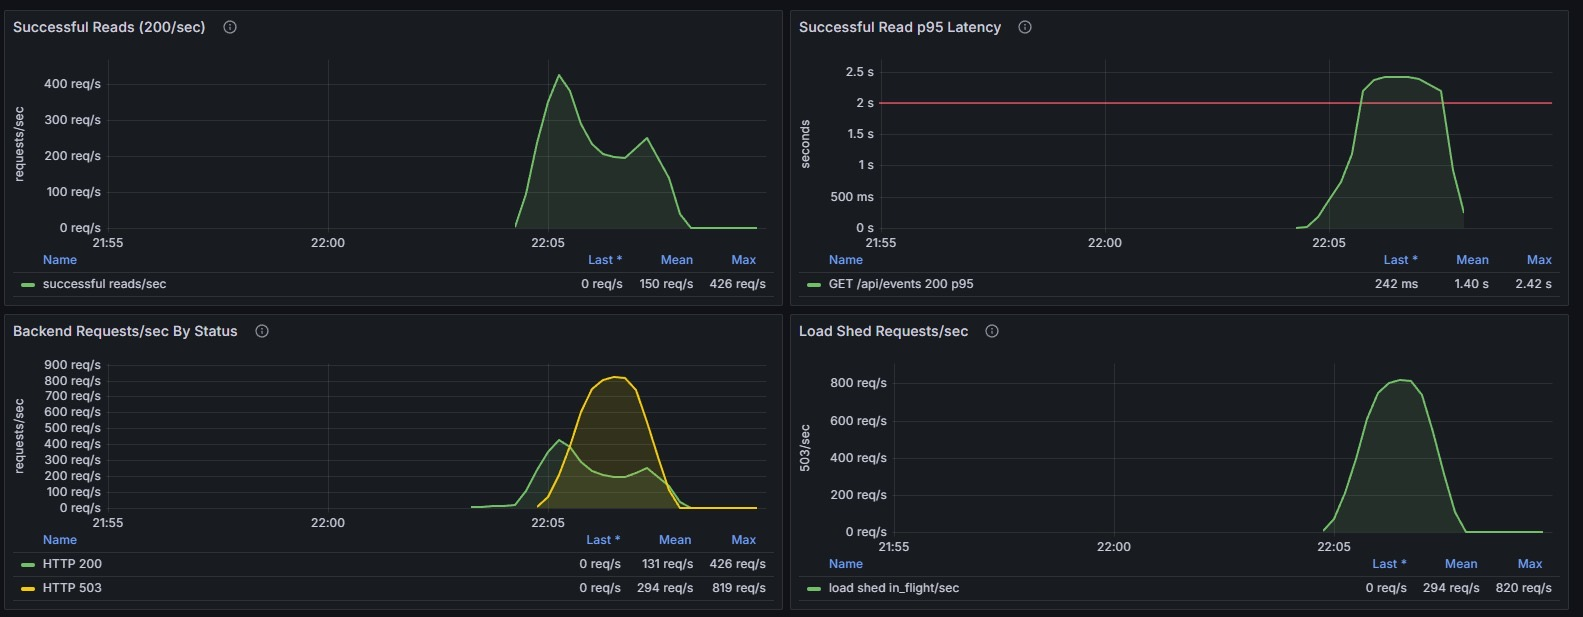
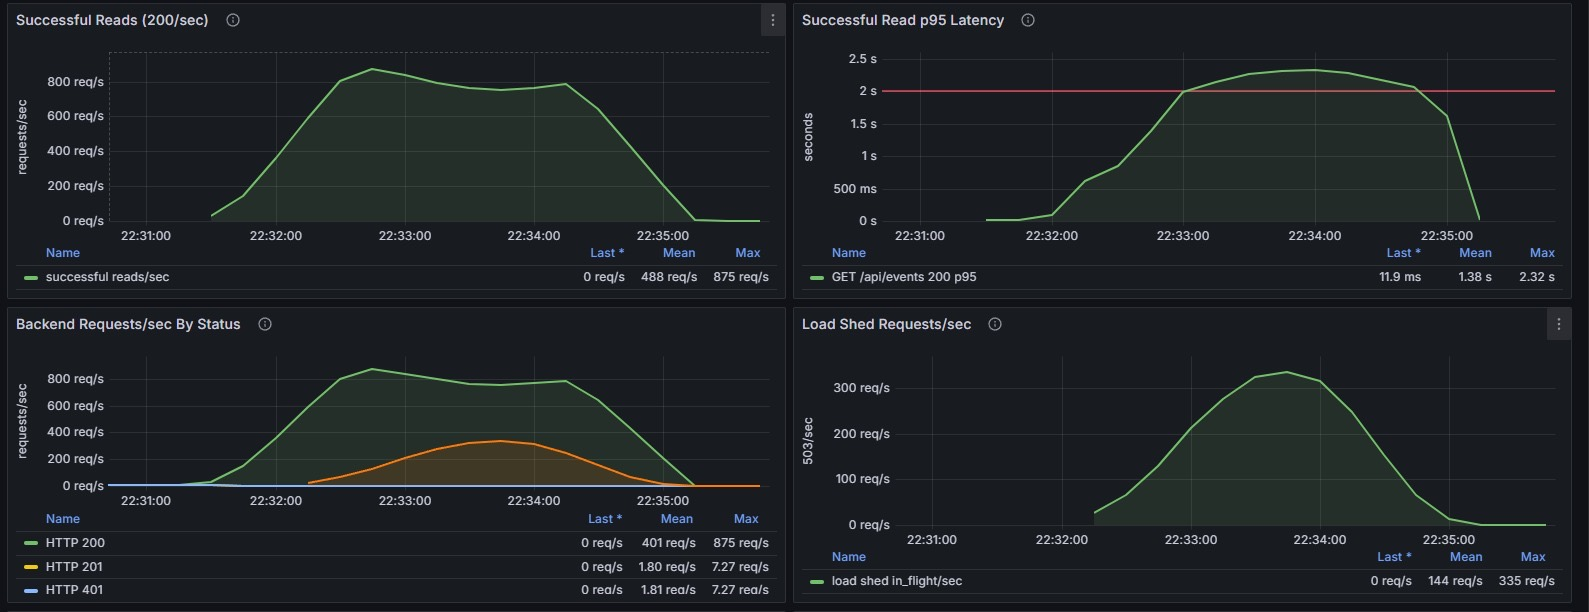
Fix swapped 3-node and 5-node results in small-machine load tests
The two charts were mislabeled: the 875 req/s peak run was the 5-node
cluster and the 426 req/s run was the 3-node cluster. Swapped the image
files and corrected the table and interpretation — throughput scales
monotonically 1 -> 3 -> 5 on the small machines too; there was no
5-node regression. Known Limitation #6 and the vertical-scaling bonus
comparison no longer claim a measured stateful-tier saturation; the
bonus conclusion is now qualitative (node count drives throughput,
larger machines buy lower tail latency and less shedding).

Claude-Session: https://claude.ai/code/session_019R9PFFCpVsKHPXvMEkCjTg

diff --git a/README.md b/README.md
@@ -656,25 +656,25 @@ Measured against 1 / 3 / 5 backend nodes at 500 peak VUs. The red line in the p9
 | Nodes | Successful reads (mean) | Successful reads (peak) | p95 latency (mean) | p95 latency (peak) | 503 load shed (mean / peak) |
 |---|---|---|---|---|---|
 | 1 | 27.7 req/s | 98.5 req/s | 3.64 s | 7.07 s | 199 / 401 req/s (in-flight) |
-| 3 | 488 req/s | 875 req/s | 1.38 s | 2.32 s | 144 / 335 req/s (in-flight) |
-| 5 | 150 req/s | 426 req/s | 1.40 s | 2.42 s | 294 / 820 req/s (in-flight) |
+| 3 | 150 req/s | 426 req/s | 1.40 s | 2.42 s | 294 / 820 req/s (in-flight) |
+| 5 | 488 req/s | 875 req/s | 1.38 s | 2.32 s | 144 / 335 req/s (in-flight) |
 
 **1 node** — saturates almost immediately: successful throughput tops out under ~100 req/s, p95 climbs to 7 s (far past the 2 s threshold), and the majority of traffic is rejected by in-flight load shedding. The single node survives the overload (it sheds instead of collapsing), but it cannot serve it.
 
 ![1 backend node](docs/results/loadtest-1-node.jpeg)
 
-**3 nodes** — the clearest scalability win: peak successful throughput rises ~9× to 875 req/s, p95 stays around the 2 s threshold instead of blowing through it, and load shedding drops even though the offered load is the same. This is the horizontal-scaling effect the assignment asks to demonstrate.
+**3 nodes** — peak successful throughput rises ~4× to 426 req/s and p95 comes back down to the 2 s threshold. Shedding at peak is the heaviest of all three runs (~820 req/s): the cluster now accepts far more of the offered 500-VU load than a single node, but still cannot serve all of it, so the in-flight shedders reject the excess instead of letting latency blow up.
 
 ![3 backend nodes](docs/results/loadtest-3-nodes.jpeg)
 
-**5 nodes** — throughput does *not* keep scaling: successful reads peak at 426 req/s, below the 3-node run, while in-flight shedding explodes to ~820 req/s at peak. With five stateless nodes in front of a single shared PostgreSQL/Redis/Nginx VM, the shared stateful tier (and the infra VM hosting it) becomes the bottleneck — backend workers wait on the database, in-flight counts rise, and the load shedders reject most of the extra traffic. This matches the hypothesis in `docs/scalability-plan.md`: adding stateless nodes helps only until the shared state saturates. It is also exactly the kind of non-linear edge case the assignment says to address rather than hide (see Known Limitations #6).
+**5 nodes** — throughput keeps scaling: successful reads peak at 875 req/s (~9× the single node, ~2× the 3-node run) with the best p95 of the set, and shedding drops sharply (144 / 335 req/s) because the cluster can now serve most of the demand. This is the horizontal-scaling effect the assignment asks to demonstrate.
 
 ![5 backend nodes](docs/results/loadtest-5-nodes.jpeg)
 
 **Takeaways:**
-- Scaling out from 1 → 3 nodes improves both throughput (~9×) and tail latency (p95 7 s → 2.3 s) — near-ideal horizontal scaling while the backend tier is the bottleneck.
-- Scaling out further (3 → 5) moves the bottleneck to the unscaled stateful tier; more stateless nodes then add contention instead of capacity.
-- Overload mitigation works as designed at every scale: excess traffic is rejected with `503` (in-flight shedding) instead of queueing until the node falls over, so successful requests keep flowing even at peak overload.
+- Throughput scales monotonically with node count: ~99 → ~426 → ~875 req/s peak for 1 → 3 → 5 nodes, and tail latency recovers from 7 s to ~2.3 s once there is more than one node.
+- The 3-node run shows overload mitigation carrying the intermediate scale: demand still exceeds capacity, so the shedders reject the excess (~820 req/s peak) while successful requests keep flowing at threshold-level latency.
+- Overload mitigation works as designed at every scale: excess traffic is rejected with `503` (in-flight shedding) instead of queueing until the node falls over — no run collapses, they degrade predictably.
 
 ### Bonus — Vertical Scaling
 Re-run the same tests with `machine_type=e2-standard-2` instead of the default `e2-micro` and compare results across all six configurations (2 machine types × 3 node counts).
@@ -701,7 +701,7 @@ In the following you can see the results on the scaled-up systems (`e2-standard-
 
 ![3 backend nodes, scaled up](docs/results/loadtest-3-nodes-scaled-up.jpeg)
 
-**(c) 5 nodes, scaled up** — the key result of the bonus: throughput keeps scaling to ~846 req/s peak with the *lowest* p95 (2.36 s peak) and *less* shedding than the 3-node run. On the small machines, 5 nodes performed worse than 3 because the shared stateful tier saturated; on the larger machines that bottleneck moves out far enough for the fifth node to pay off. Horizontal and vertical scaling complement each other — scaling out multiplies capacity only while the shared components can keep up, and scaling up is what buys them that headroom.
+**(c) 5 nodes, scaled up** — throughput keeps scaling to ~846 req/s peak with the *lowest* p95 of the set (2.36 s peak) and less shedding than the 3-node run — the same monotonic 1 → 3 → 5 pattern as on the small machines, confirming that horizontal scaling is the dominant effect at both machine sizes. Absolute numbers are not directly comparable across the two machine-type sets (the small-machine runs used the earlier load test pipeline and shedding tuning), so the bonus conclusion is qualitative: node count drives throughput, and the larger machine type mainly buys lower tail latency and less shedding at the same node count.
 
 ![5 backend nodes, scaled up](docs/results/loadtest-5-nodes-scaled-up.jpeg)
 
@@ -773,7 +773,7 @@ For local dev, both default to `localhost` if the env file is absent.
 3. **Cache invalidation uses a hand-maintained key list:** writes delete all 8 city/sport/day key permutations (including the `all` catch-alls), so list caches stay consistent — but the list of permutations is hard-coded and must be kept in sync if new filters are added. A production system would use key tagging or versioned namespaces.
 4. **JWTs are long-lived with no refresh or revocation:** tokens expire after 7 days, but there is no refresh flow and no way to revoke a token before it expires. A production system would use short-lived access tokens with refresh tokens.
 5. **JWT signing secret has committed defaults:** `auth_utils.py` falls back to a hard-coded development secret, and the Terraform variable `jwt_secret_key` defaults to a value committed in this repository, which is what a deployment uses unless overridden. Acceptable for the assignment demo; any real deployment must supply its own secret.
-6. **PostgreSQL is not scaled:** it is the shared bottleneck once the stateless tier is large enough — visible in the load test results, where 5 backend nodes performed worse than 3 because the single database/infra VM saturated. Scaling the stateful tier (read replicas, connection pooling, a managed database) is outside the scope of this assignment.
+6. **PostgreSQL is not scaled:** all writes and cache misses land on a single database on the shared infra VM, so it is the expected bottleneck once the stateless tier grows large enough or the workload becomes write-heavy. Scaling the stateful tier (read replicas, connection pooling, a managed database) is outside the scope of this assignment.
 
 ---
 
